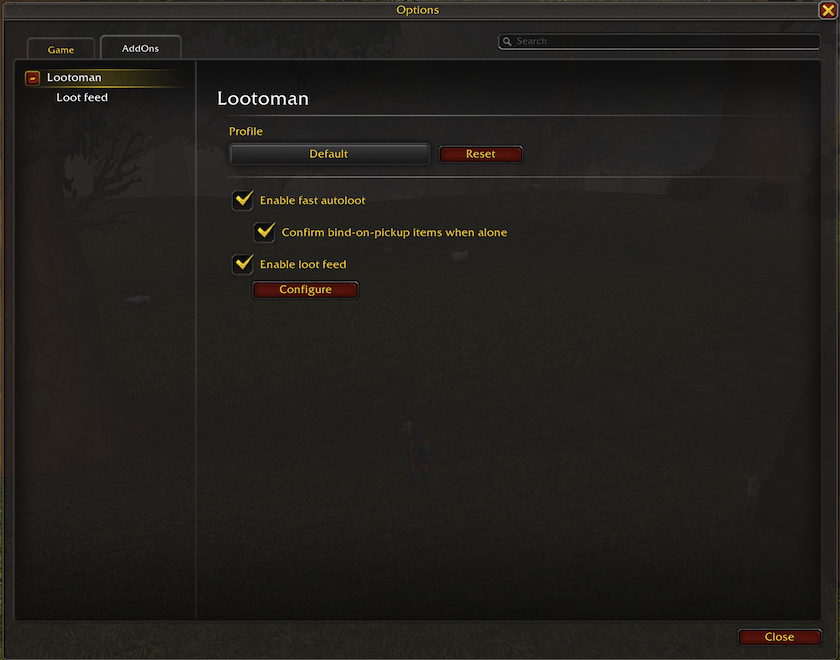
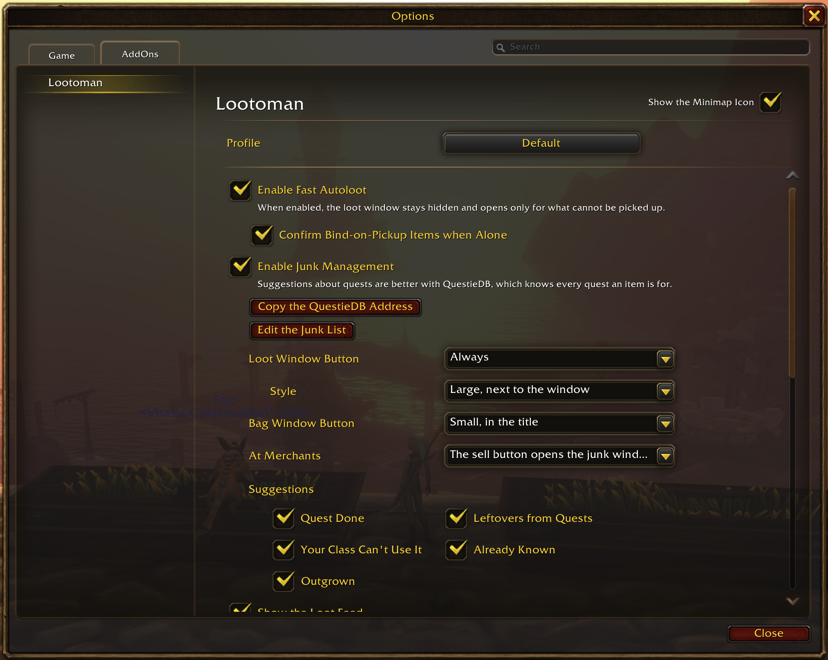
README: new screenshots, each in its section
The loot feed, the look window, the junk window, the options page and the
minimap icon's menu, as they are now, each under the section it shows;
the Screenshots section at the end goes. The old shots of the Edit Mode
dialog, the designer and the old options pages are removed. The window
shots are at the game's size; the small ones keep their full size to stay
readable.

diff --git a/README.md b/README.md
@@ -15,6 +15,8 @@ Lootoman is a World of Warcraft addon about loot: fast autoloot, a loot feed you
 
 ### Loot feed
 
+![The loot feed: two cloths, reputation, money and the junk in one row](screenshots/loot-feed.png)
+
 - What you pick up appears next to the centre of the screen and fades out: items, currencies, money, reputation and, if you want, experience. Repeated items merge into one row with a count, and all junk (gray items and items you marked as junk) gathers in one row, "Junk", which lists them in its tooltip. When much is looted at once, the rows come in one after another and leave the same way. Money from merchants, mail, trade, the auction house and banks is not loot and is not shown.
 - Quest items carry the bags' gold quest border on their icon. Point at a row to see the item's or currency's tooltip, or money, experience and reputation in full; the feed waits while you do. Shift-click an item row to put its link into the chat; right-click a piece of gear you just looted to equip it. Other clicks go through to the game world, but for a kept item.
 - **Feed looks** hold every setting of the feed and the design of its rows. Looks have names and are shared by every profile; each profile uses one, chosen on the options page from a menu like Edit Mode's layout menu: edit, copy, rename, reset to the defaults and delete a look, start a new one, and share or import looks as text. The look Default always exists.
@@ -30,7 +32,11 @@ Lootoman is a World of Warcraft addon about loot: fast autoloot, a loot feed you
 - The feed is placed with the game's Edit Mode, with its own position in every Edit Mode layout.
 - **Low-space warning**: one warning row sits at the feed's edge where its oldest row is, then a kept item, and the rows stack after them. It shows while any of three thresholds you turn on is reached: free slots in all bags, in the general bags (on by default, at 3 or fewer: only they take gear and junk), or in the reagent bag. Its number is a text you write with tokens, such as `{general}+{reagent|1eff00}` (the default, "3+2") or `{free} / {total}`, each named with what it stands for under the field; its tooltip lists every kind of bag; a click opens the junk window while junk management is on. It follows the look's design like any row: a bag with a red border and "Few free bag slots" as its name.
 
+![The look window on its Content tab, the sample rows on the right](screenshots/look-window.png)
+
 ### Junk
+
+![The junk window, throwing away: the junk on top, the suggestions, then the rest by kind, with prices](screenshots/junk-window.png)
 
 - Junk is every gray item and every item you marked as junk, but not an item you marked "not junk". Lootoman also suggests what else could go; a suggestion becomes junk only when you send it there.
 - *Enable Junk Management* turns all of it on or off; turned off, the game's own sell-junk button is back.
@@ -61,11 +67,15 @@ Lootoman is a World of Warcraft addon about loot: fast autoloot, a loot feed you
 
 ### Options and profiles
 
+![The options page](screenshots/options.png)
+
 - One options page in the game's AddOns options, with no subpages: the profile on top, chosen from a menu like Edit Mode's layout menu (copy, rename, reset, delete, new profile, import, share); then a switch for fast autoloot, junk, the loot feed and, on WoW Forever, gathering highlights, each with its options under it. What does not fit is in Lootoman's own windows: a feed look's window and the junk window. At the page's top right, *Show the Minimap Icon*, for this character.
 - **The minimap icon**, Lootoman's own picture (the game's AddOns list shows it too), opens the options on a click; a right click opens a menu: *Options*, *Loot Feed Look*, *Junk* and *Bug Report*. Drag it round the minimap's edge (a square minimap too, when a minimap addon makes it square); it stays where you put it. The game's addon compartment has the same entry, also with the icon hidden.
 - Every character can use its own profile; new characters use the Default profile.
 - **Share** makes a text of the current profile to give to another character or player. Tick what goes into it: each feature's options, the loot feed's position and the look it uses, and any of your feed looks. **Import** reads such a text, shows what it holds and takes what you tick, into a new profile or into the current one; texts from earlier versions are read too. When an imported look's name is taken, choose for each one: keep both, replace yours, or keep yours. Feed looks can also be shared and imported on their own, from the look menu.
 - Changes apply at once, without `/reload`.
+
+![The minimap icon and its menu](screenshots/minimap.png)
 
 ### Languages and clients
 
@@ -83,16 +93,6 @@ English and Russian. For World of Warcraft (retail) and WoW Forever.
 ### Bug reports
 
 *Bug Report* in the minimap icon's menu (or `/ltm report`) opens a window with the whole report, ready to copy: the versions, a self-test, this session's errors, the extended log and the options that differ from their defaults; it names neither your character nor your realm. Turn on *Extended Log* there, do what goes wrong, and come back. Lootoman keeps its own errors always, and never fills the chat with debug lines.
-
-## Screenshots
-
-The loot feed after picking up herbs, leather and experience:
-
-![The loot feed](screenshots/loot-feed.png)
-
-The loot feed in Edit Mode:
-
-![The loot feed in Edit Mode](screenshots/edit-mode.png)
 
 ## Status
 
